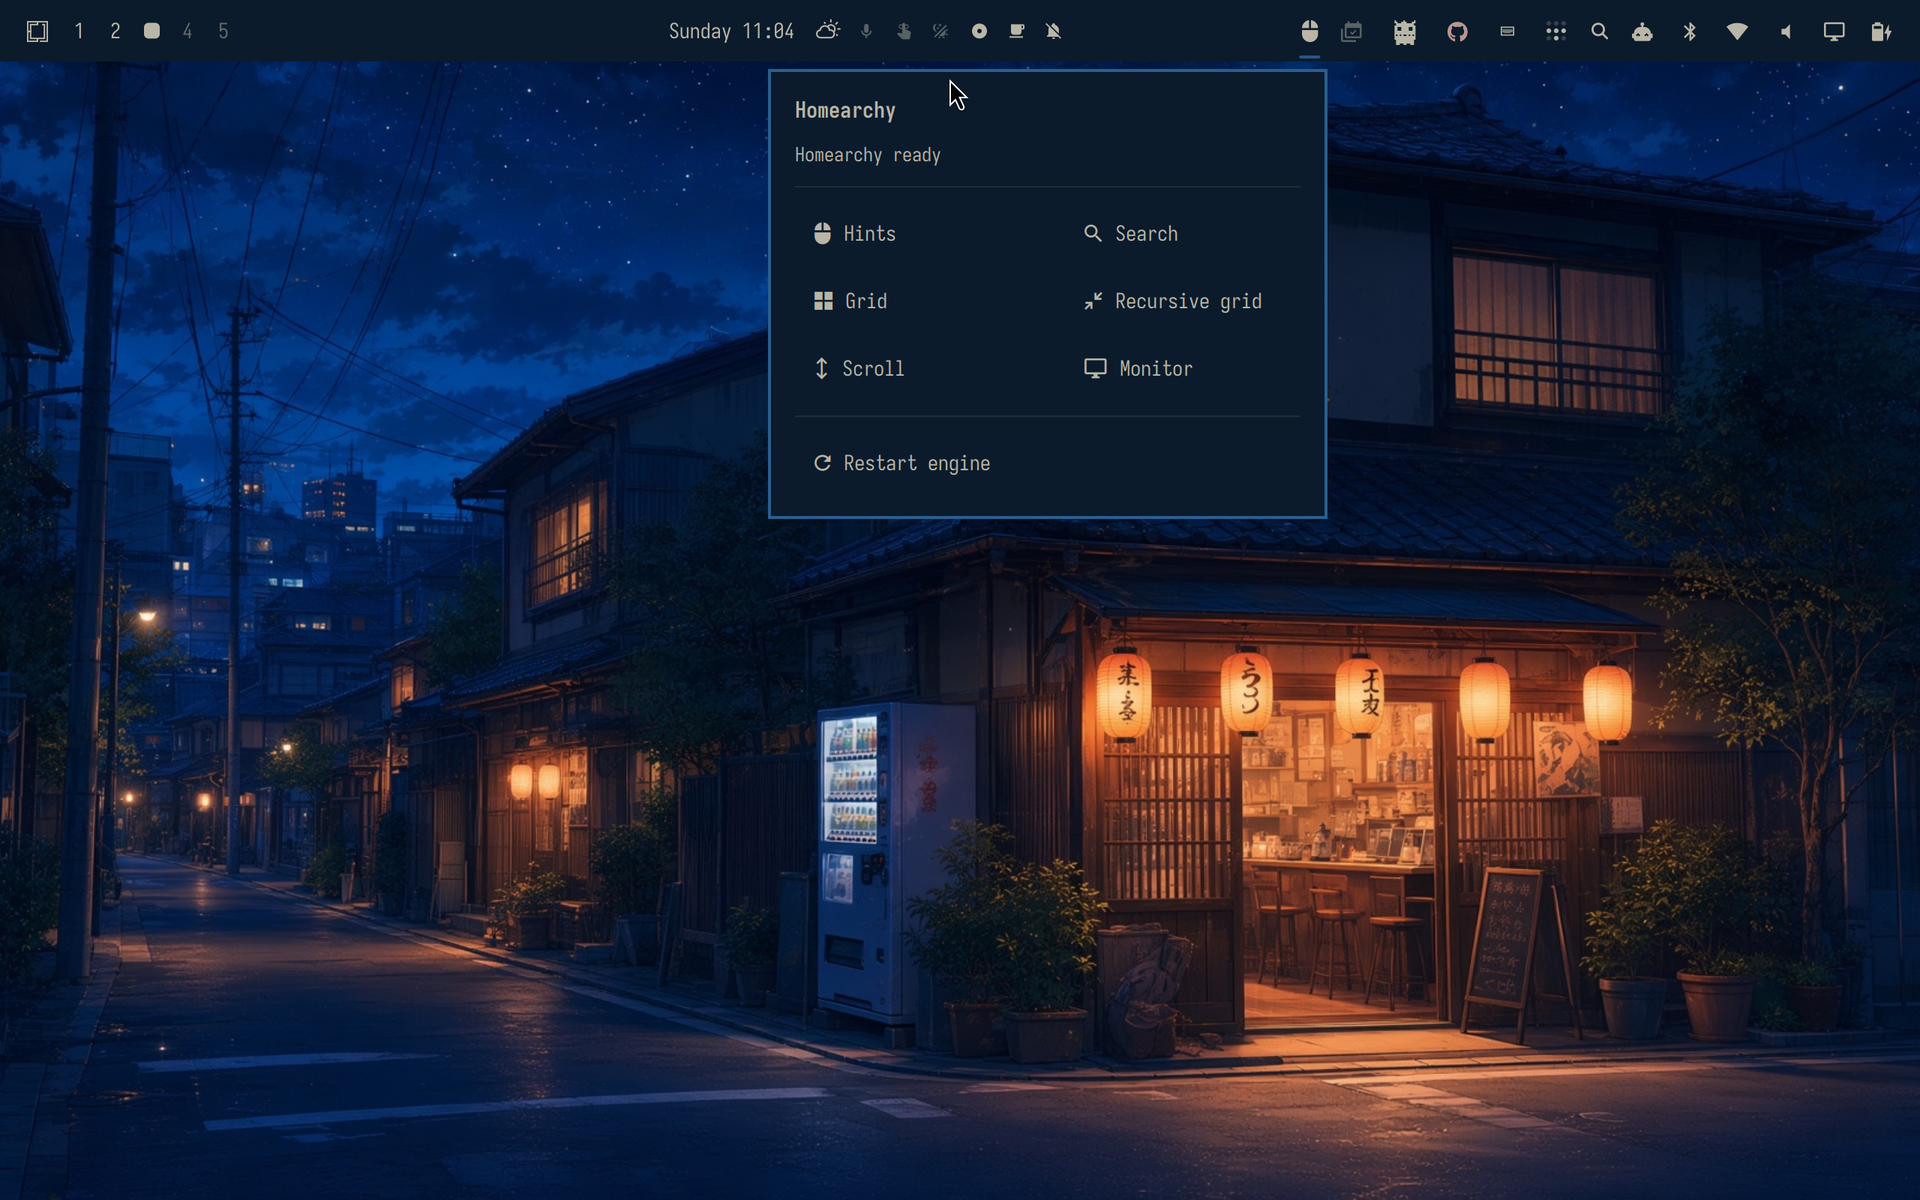
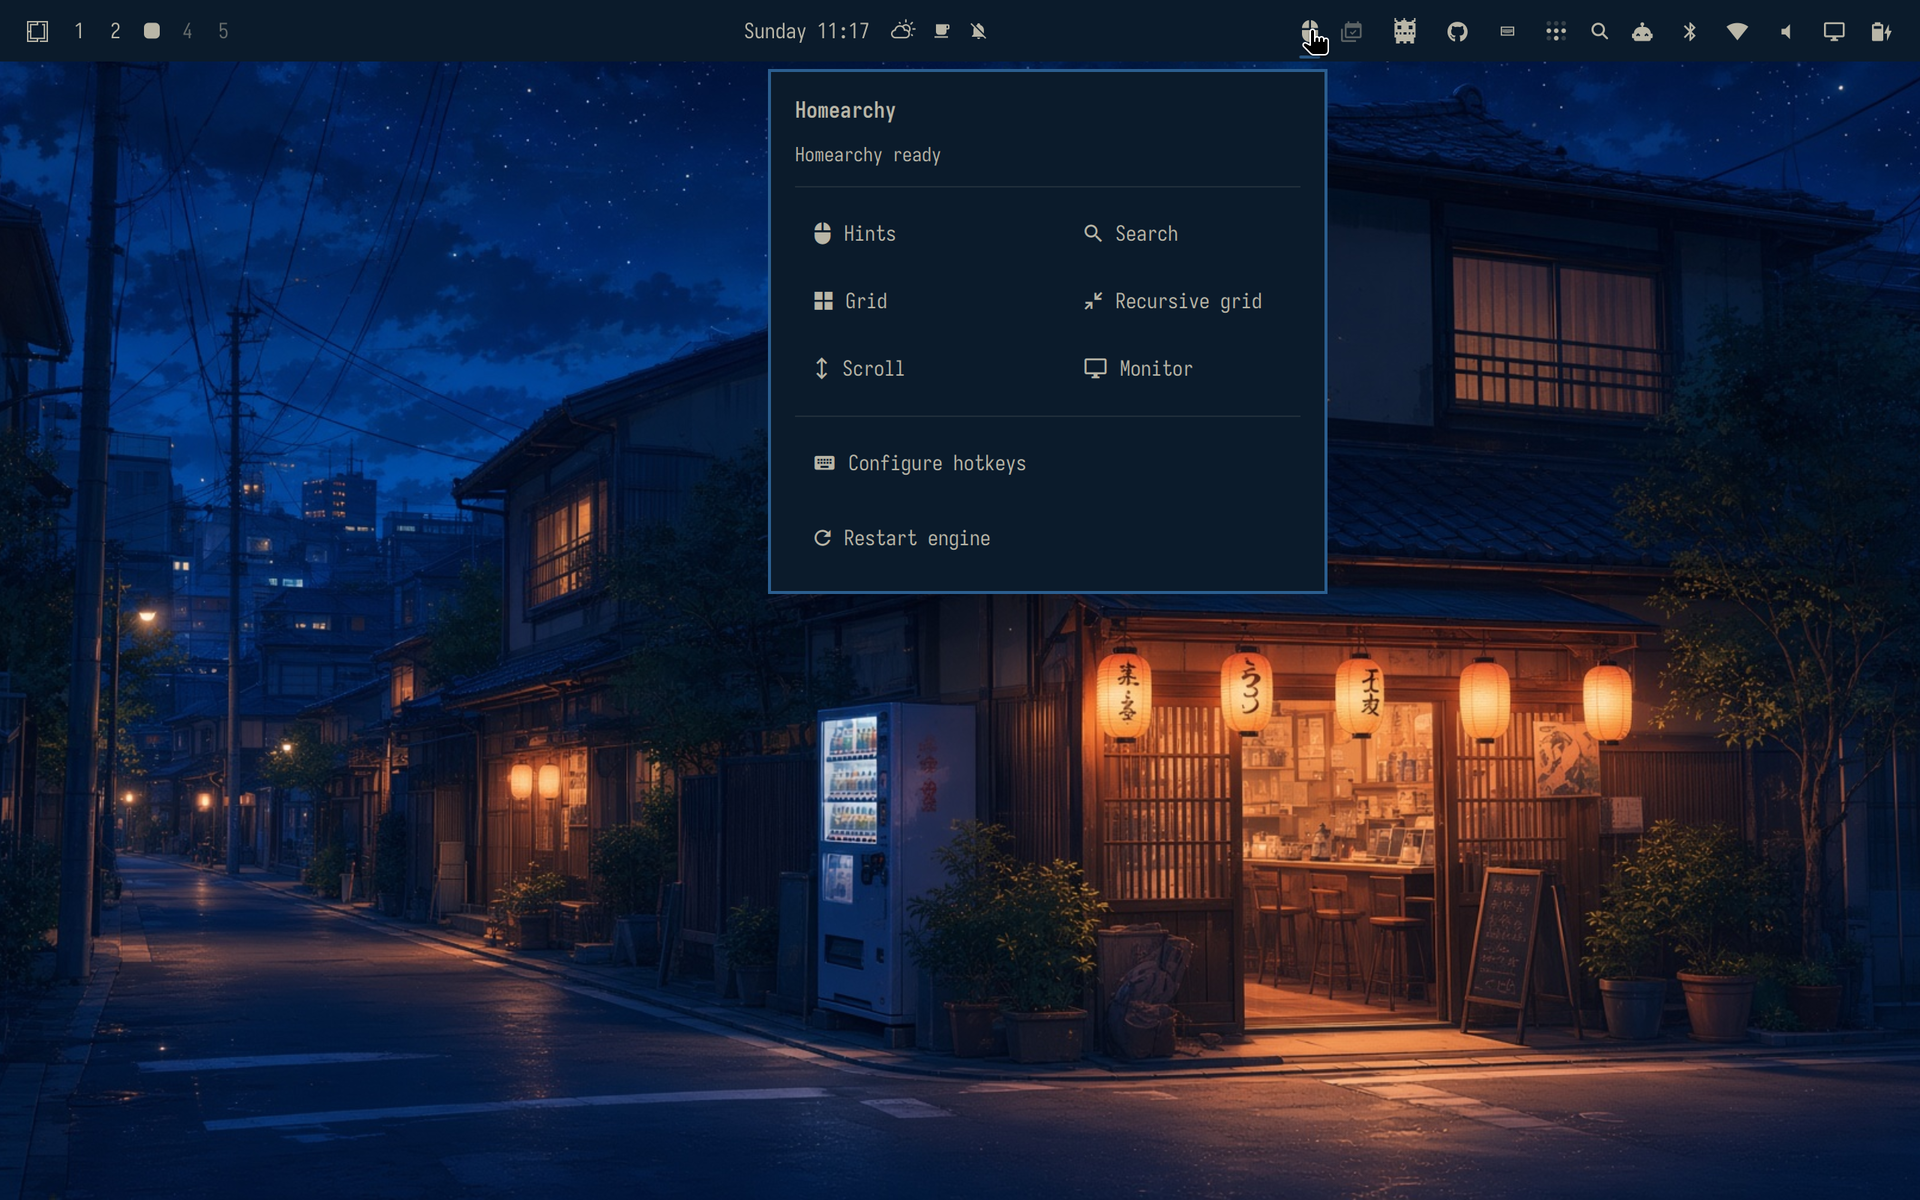
Show bar menu, grid, and recursive grid in the plugin preview.
Drop the hints screenshot. Add a Configure hotkeys page to the bar menu.

diff --git a/BarWidget.qml b/BarWidget.qml
@@ -18,8 +18,12 @@ BarWidget {
     : "Homearchy · " + engineState
 
   property bool popupOpen: false
+  property bool showingHotkeyHelp: false
 
-  function close() { popupOpen = false }
+  function close() {
+    popupOpen = false
+    showingHotkeyHelp = false
+  }
   function runMode(arguments) {
     if (homearchyService) homearchyService.runMode(arguments)
   }
@@ -57,102 +61,176 @@ BarWidget {
       anchors.fill: parent
       spacing: Style.space(10)
 
-      Text {
-        text: "Homearchy"
-        color: root.bar.foreground
-        font.family: root.bar.fontFamily
-        font.pixelSize: Style.font.subtitle
-        font.bold: true
-      }
-
-      Text {
+      Column {
         width: parent.width
-        text: root.statusText
-        color: root.engineReady ? root.bar.foreground : Color.urgent
-        font.family: root.bar.fontFamily
-        font.pixelSize: Style.font.bodySmall
-        elide: Text.ElideRight
+        spacing: Style.space(10)
+        visible: !root.showingHotkeyHelp
+
+        Text {
+          text: "Homearchy"
+          color: root.bar.foreground
+          font.family: root.bar.fontFamily
+          font.pixelSize: Style.font.subtitle
+          font.bold: true
+        }
+
+        Text {
+          width: parent.width
+          text: root.statusText
+          color: root.engineReady ? root.bar.foreground : Color.urgent
+          font.family: root.bar.fontFamily
+          font.pixelSize: Style.font.bodySmall
+          elide: Text.ElideRight
+        }
+
+        PanelSeparator {
+          width: parent.width
+          foreground: root.bar.foreground
+        }
+
+        Grid {
+          columns: 2
+          spacing: Style.space(6)
+
+          Button {
+            width: Style.space(148)
+            text: "Hints"
+            iconText: ""
+            foreground: root.bar.foreground
+            enabled: root.engineReady
+            leftAlign: true
+            onClicked: { root.runMode(["hints"]); root.close() }
+          }
+          Button {
+            width: Style.space(148)
+            text: "Search"
+            iconText: ""
+            foreground: root.bar.foreground
+            enabled: root.engineReady
+            leftAlign: true
+            onClicked: { root.runMode(["hints", "--search"]); root.close() }
+          }
+          Button {
+            width: Style.space(148)
+            text: "Grid"
+            iconText: ""
+            foreground: root.bar.foreground
+            enabled: root.engineReady
+            leftAlign: true
+            onClicked: { root.runMode(["grid"]); root.close() }
+          }
+          Button {
+            width: Style.space(148)
+            text: "Recursive grid"
+            iconText: ""
+            foreground: root.bar.foreground
+            enabled: root.engineReady
+            leftAlign: true
+            onClicked: { root.runMode(["recursive_grid"]); root.close() }
+          }
+          Button {
+            width: Style.space(148)
+            text: "Scroll"
+            iconText: ""
+            foreground: root.bar.foreground
+            enabled: root.engineReady
+            leftAlign: true
+            onClicked: { root.runMode(["scroll"]); root.close() }
+          }
+          Button {
+            width: Style.space(148)
+            text: "Monitor"
+            iconText: ""
+            foreground: root.bar.foreground
+            enabled: root.engineReady
+            leftAlign: true
+            onClicked: { root.runMode(["monitor_select"]); root.close() }
+          }
+        }
+
+        PanelSeparator {
+          width: parent.width
+          foreground: root.bar.foreground
+        }
+
+        Button {
+          width: parent.width
+          text: "Configure hotkeys"
+          iconText: ""
+          foreground: root.bar.foreground
+          leftAlign: true
+          onClicked: root.showingHotkeyHelp = true
+        }
+
+        Button {
+          width: parent.width
+          text: "Restart engine"
+          iconText: ""
+          foreground: root.bar.foreground
+          leftAlign: true
+          onClicked: {
+            if (root.homearchyService) root.homearchyService.requestRestart()
+            root.close()
+          }
+        }
       }
 
-      PanelSeparator {
+      Column {
         width: parent.width
-        foreground: root.bar.foreground
-      }
+        spacing: Style.space(10)
+        visible: root.showingHotkeyHelp
 
-      Grid {
-        columns: 2
-        spacing: Style.space(6)
+        Text {
+          text: "Configure hotkeys"
+          color: root.bar.foreground
+          font.family: root.bar.fontFamily
+          font.pixelSize: Style.font.subtitle
+          font.bold: true
+        }
+
+        Text {
+          width: parent.width
+          wrapMode: Text.WordWrap
+          color: root.bar.foreground
+          font.family: root.bar.fontFamily
+          font.pixelSize: Style.font.bodySmall
+          text: "Hyprland chords live in the managed Homearchy block in ~/.config/hypr/bindings.lua. Reload with hyprctl reload after you edit them."
+        }
+
+        Text {
+          width: parent.width
+          wrapMode: Text.WordWrap
+          color: root.bar.foreground
+          font.family: root.bar.fontFamily
+          font.pixelSize: Style.font.bodySmall
+          text: "Keep the [hotkeys] table in Service.qml generatedConfig() on the same chords, then restart the plugin:"
+        }
+
+        Text {
+          width: parent.width
+          wrapMode: Text.WrapAnywhere
+          color: root.bar.foreground
+          font.family: root.bar.fontFamily
+          font.pixelSize: Style.font.bodySmall
+          text: "omarchy-shell io.github.inde3d100.homearchy restart"
+        }
+
+        Text {
+          width: parent.width
+          wrapMode: Text.WordWrap
+          color: root.bar.foreground
+          font.family: root.bar.fontFamily
+          font.pixelSize: Style.font.bodySmall
+          text: "Re-running homearchy-setup restores the defaults. Overlay Space, Enter, and Escape are generated by the plugin, not by bindings.lua."
+        }
 
         Button {
-          width: Style.space(148)
-          text: "Hints"
-          iconText: ""
+          width: parent.width
+          text: "Back"
+          iconText: ""
           foreground: root.bar.foreground
-          enabled: root.engineReady
           leftAlign: true
-          onClicked: { root.runMode(["hints"]); root.close() }
-        }
-        Button {
-          width: Style.space(148)
-          text: "Search"
-          iconText: ""
-          foreground: root.bar.foreground
-          enabled: root.engineReady
-          leftAlign: true
-          onClicked: { root.runMode(["hints", "--search"]); root.close() }
-        }
-        Button {
-          width: Style.space(148)
-          text: "Grid"
-          iconText: ""
-          foreground: root.bar.foreground
-          enabled: root.engineReady
-          leftAlign: true
-          onClicked: { root.runMode(["grid"]); root.close() }
-        }
-        Button {
-          width: Style.space(148)
-          text: "Recursive grid"
-          iconText: ""
-          foreground: root.bar.foreground
-          enabled: root.engineReady
-          leftAlign: true
-          onClicked: { root.runMode(["recursive_grid"]); root.close() }
-        }
-        Button {
-          width: Style.space(148)
-          text: "Scroll"
-          iconText: ""
-          foreground: root.bar.foreground
-          enabled: root.engineReady
-          leftAlign: true
-          onClicked: { root.runMode(["scroll"]); root.close() }
-        }
-        Button {
-          width: Style.space(148)
-          text: "Monitor"
-          iconText: ""
-          foreground: root.bar.foreground
-          enabled: root.engineReady
-          leftAlign: true
-          onClicked: { root.runMode(["monitor_select"]); root.close() }
-        }
-      }
-
-      PanelSeparator {
-        width: parent.width
-        foreground: root.bar.foreground
-      }
-
-      Button {
-        width: parent.width
-        text: "Restart engine"
-        iconText: ""
-        foreground: root.bar.foreground
-        leftAlign: true
-        onClicked: {
-          if (root.homearchyService) root.homearchyService.requestRestart()
-          root.close()
+          onClicked: root.showingHotkeyHelp = false
         }
       }
     }

diff --git a/README.md b/README.md
@@ -2,13 +2,13 @@
 
 Keyboard-driven navigation for [Omarchy](https://omarchy.org). Homearchy adds screen-wide hints, search, grid navigation, recursive grid navigation, vim-style scrolling, monitor selection, and an optional Omarchy bar widget.
 
-Click the bar icon to open every mode. Hints label buttons in the focused window. Grid covers the whole screen with typeable cells.
+Click the bar icon to open every mode, including how to configure hotkeys. Grid covers the whole screen with typeable cells. Recursive grid starts coarser, then zooms into the cell you type.
 
 ![Homearchy bar menu](assets/homearchy-popup.png)
 
-![Homearchy hints](assets/homearchy-hints.png)
-
 ![Homearchy grid](assets/homearchy-grid.png)
+
+![Homearchy recursive grid](assets/homearchy-recursive-grid.png)
 
 ## Requirements
 
@@ -43,13 +43,11 @@ The plugin starts and supervises the engine through Omarchy Shell. No separate s
 | `Super+Shift+I` | Monitor selection |
 | `Super+Shift+Escape` | Cancel overlay / return to idle |
 
-The shortcuts are configurable. Edit the managed Homearchy block in `~/.config/hypr/bindings.lua`, then reload Hyprland with `hyprctl reload`. Keep the `[hotkeys]` table in `Service.qml` `generatedConfig()` on the same chords and restart the plugin so the engine matches:
+The shortcuts are configurable. Open **Configure hotkeys** from the bar menu, or edit the managed Homearchy block in `~/.config/hypr/bindings.lua`, then reload Hyprland with `hyprctl reload`. Keep the `[hotkeys]` table in `Service.qml` `generatedConfig()` on the same chords and restart the plugin so the engine matches:
 
 ```bash
 omarchy-shell io.github.inde3d100.homearchy restart
 ```
-
-Re-running `homearchy-setup` restores the defaults above.
 
 Hints, searchable hints, grid, and recursive grid left-click the final selection automatically. In grid and recursive grid, type the cell letters to zoom, then `Space` to left-click or `Enter` to right-click the current cell. Overlay `Enter` is not `Super+Enter` (Omarchy's open-terminal chord). Press `Escape` or `Super+Shift+Escape` to cancel without clicking. Those overlay keys are generated by the plugin service, not by `bindings.lua`.
 
@@ -65,7 +63,7 @@ Remove only Homearchy's managed bindings with:
 
 ## Bar widget
 
-The widget shows engine health and the active navigation mode. Click it to open controls for every mode or restart the engine. Middle-click starts hints directly.
+The widget shows engine health and the active navigation mode. Click it to open controls for every mode, read how to configure hotkeys, or restart the engine. Middle-click starts hints directly.
 
 Move it with Omarchy's bar command:
 

diff --git a/CHANGELOG.md b/CHANGELOG.md
@@ -9,8 +9,9 @@
 - Bound recursive grid to `Super+Shift+R` and scroll to `Super+Shift+Z` so the defaults stay off stock Omarchy Super+letter chords.
 - Documented that the Super shortcuts are configurable in `bindings.lua` and `Service.qml`.
 - Kept `Super+Enter` as Omarchy's terminal shortcut; Homearchy does not bind it.
-- Replaced the GitHub/marketplace preview with a collage of the bar menu, hints overlay, and full grid.
-- Added README screenshots of the bar menu, hints overlay, and full grid.
+- Replaced the GitHub/marketplace preview with a collage of the bar menu, full grid, and recursive grid.
+- Added README screenshots of the bar menu, full grid, and recursive grid.
+- Added a Configure hotkeys page to the bar menu.
 - Bound `Super+Shift+Escape` as an emergency overlay cancel, and stopped a Wayland capture race that could freeze the session until reboot.
 - Bound `Space` to left-click and `Enter` to right-click in grid and recursive grid, then return to idle.
 - Inverted scroll on Omarchy so vim `j`/`k` match down/up.
